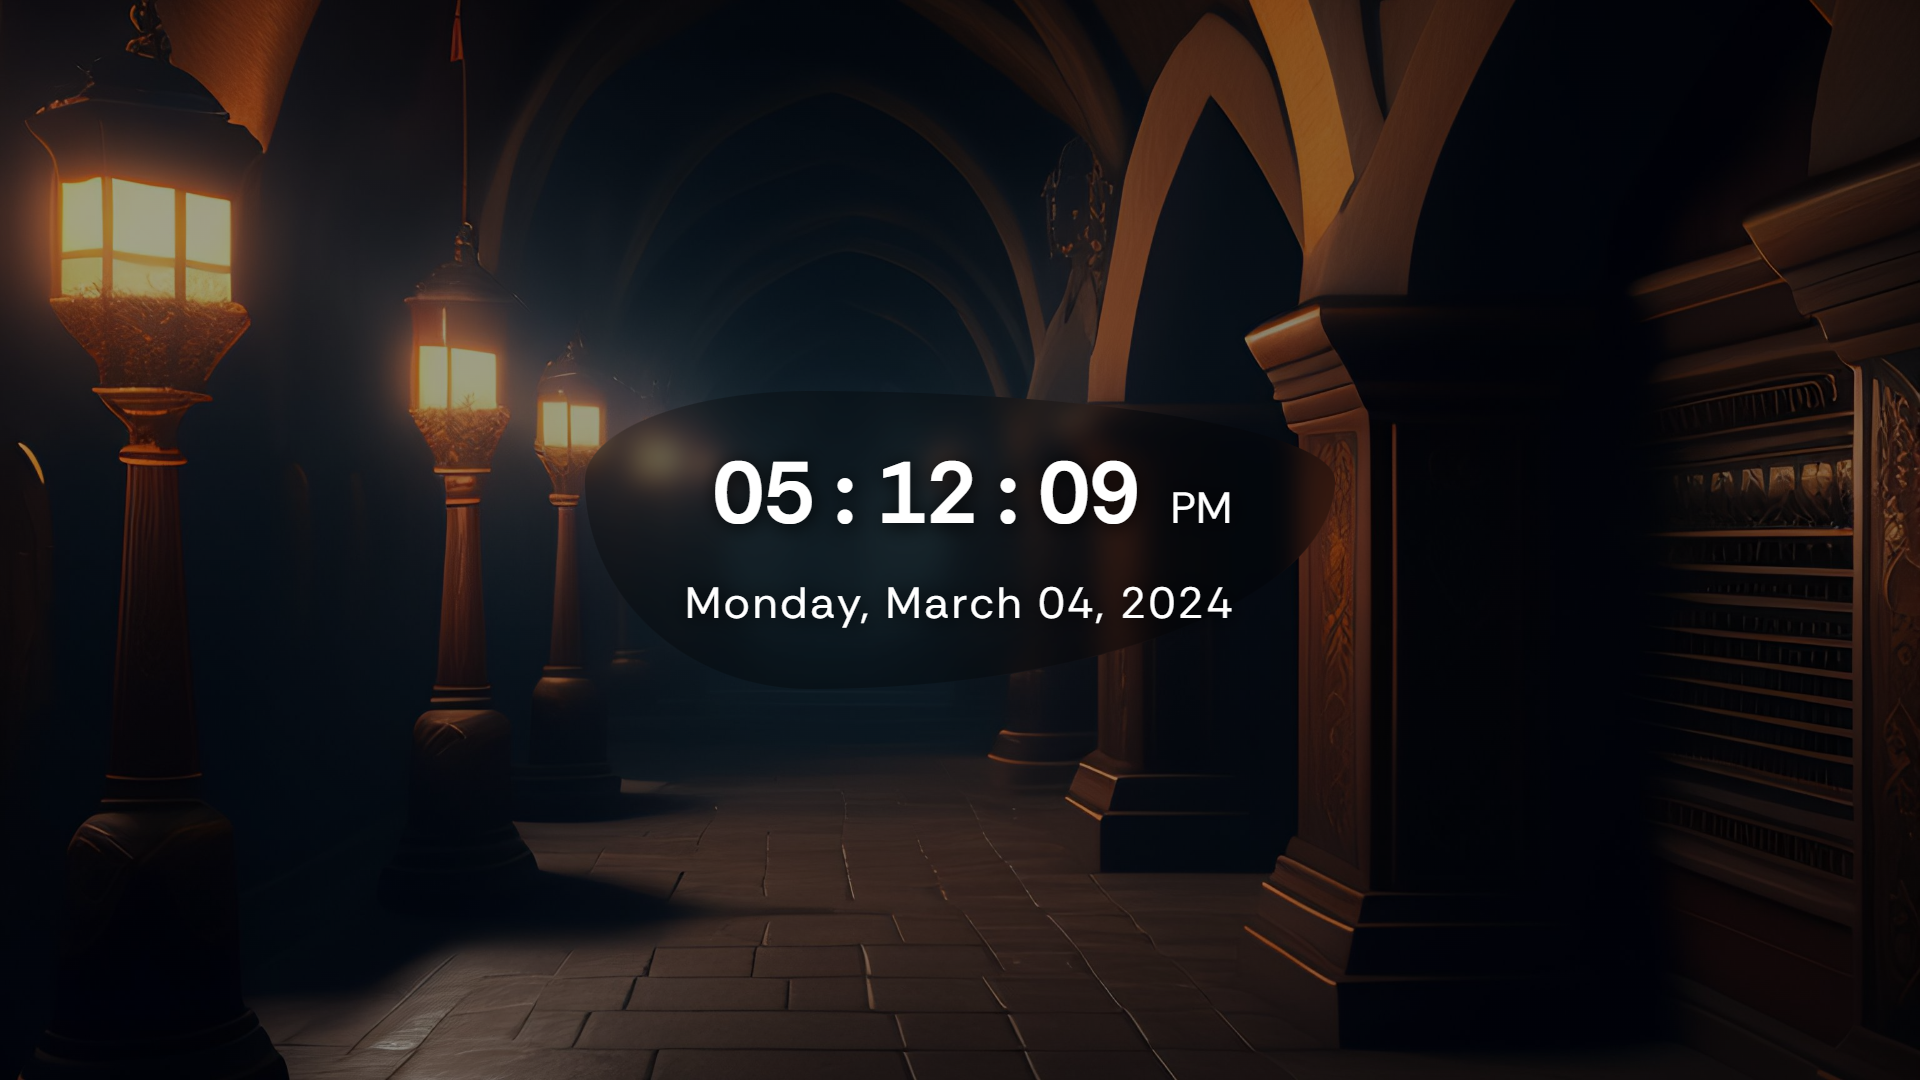
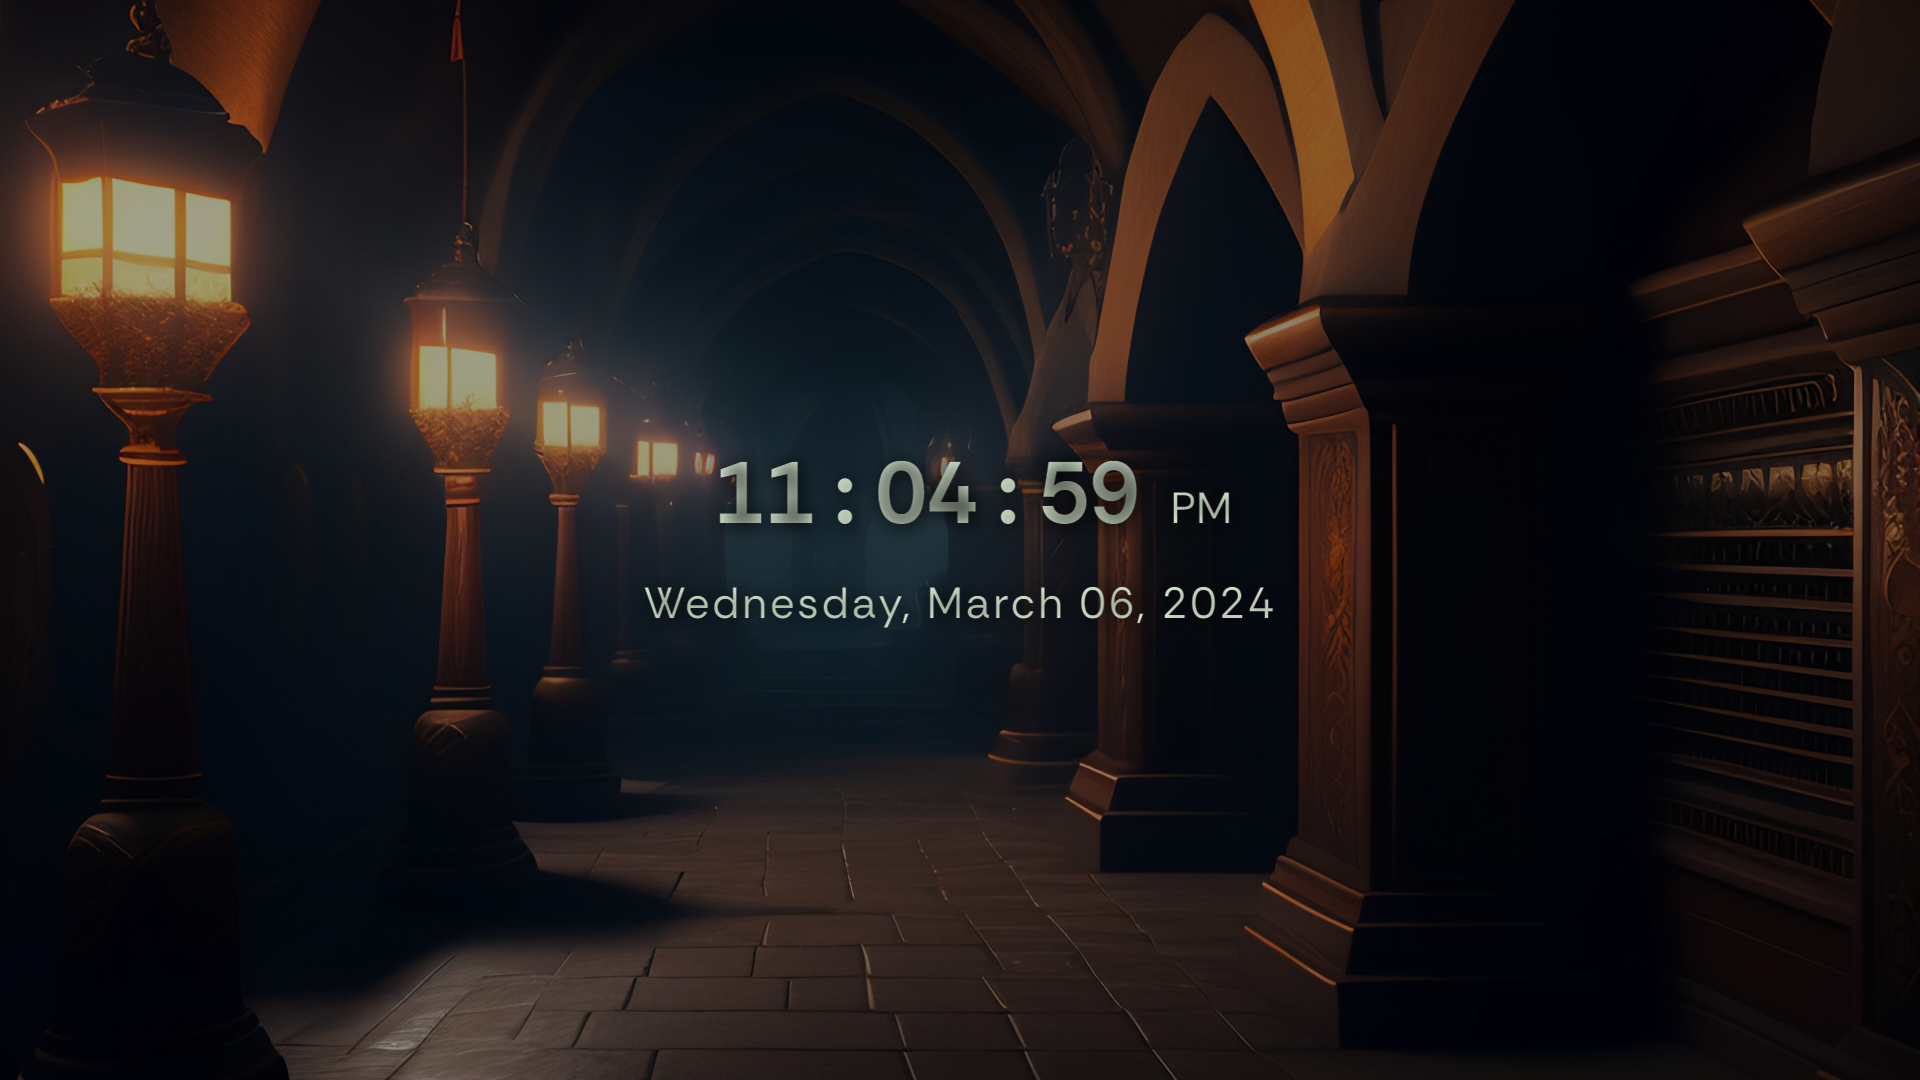
digital clock updated

Changed region(s): [[0.3125, 0.3667, 0.6875, 0.6111]]

diff --git a/pages/digital-clock.html b/pages/digital-clock.html
@@ -44,9 +44,10 @@
             text-align: center;
             align-items: center;
             justify-content: center;
-            background: rgba(0, 0, 0, 0.3);
-            backdrop-filter: blur(10px);
-            border-radius: 30% 70% 70% 30% / 30% 30% 70% 70%;
+            background: #eafde3;
+            -webkit-background-clip: text;
+            -webkit-text-fill-color: transparent;
+            border-radius: 0.4rem;
         }
 
         #clock {
